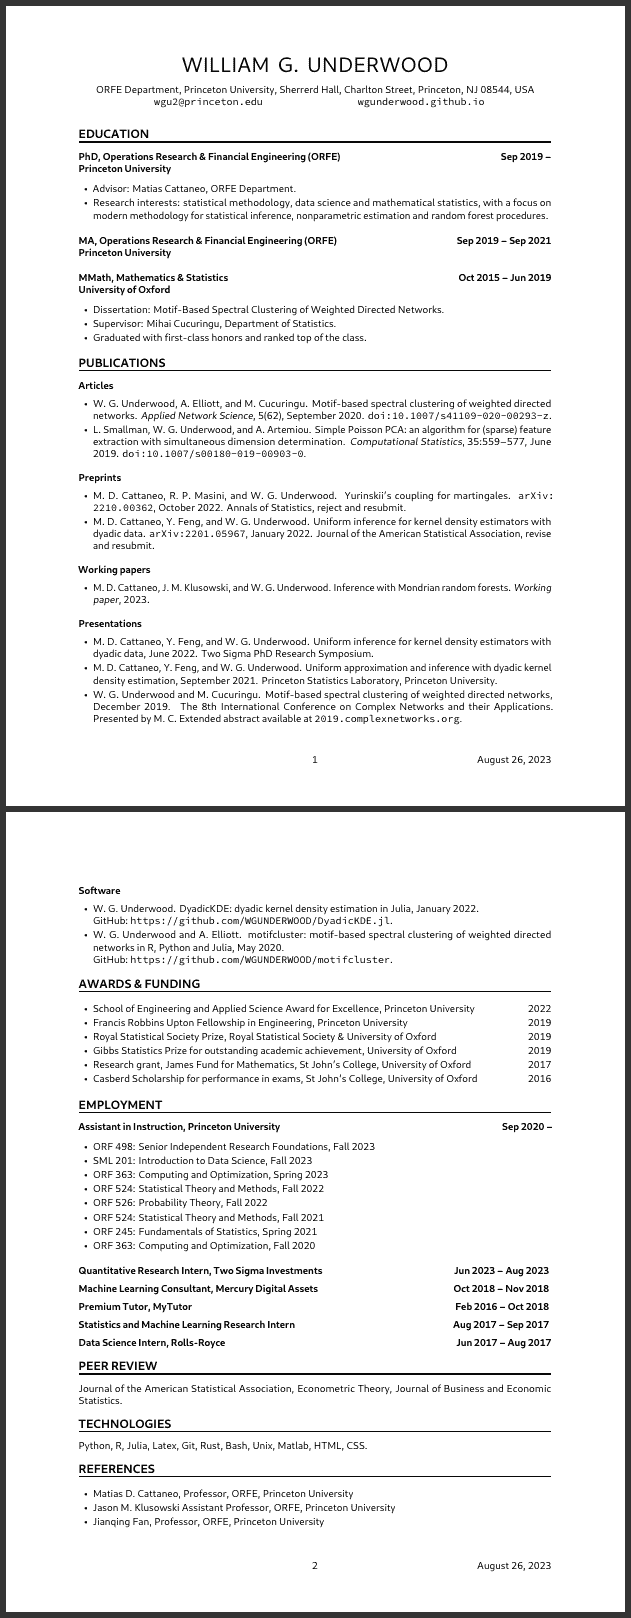
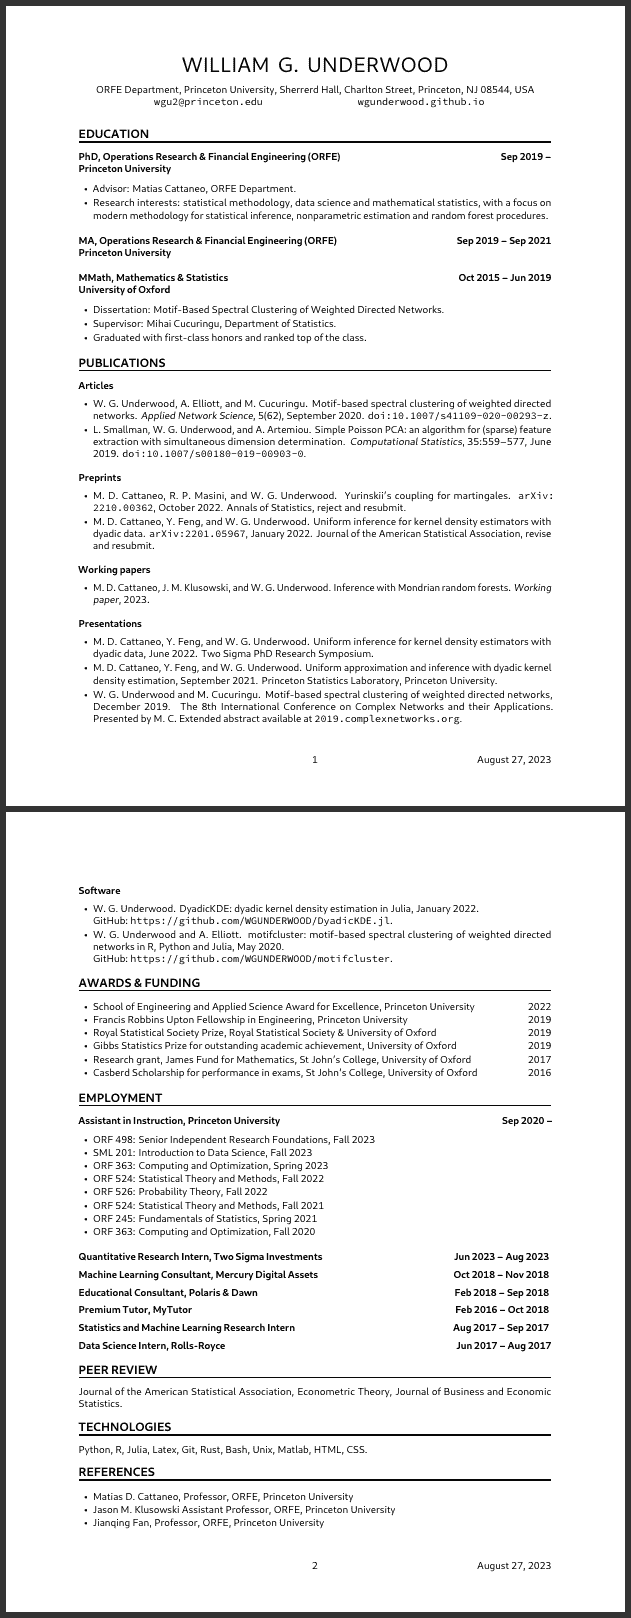
added polaris and dawn

Changed region(s): [[0.1204, 0.5871, 0.8732, 0.958], [0.7829, 0.618, 0.8732, 0.7108]]

diff --git a/WGUnderwood.tex b/WGUnderwood.tex
@@ -206,6 +206,11 @@
 {Oct 2018 -- Nov 2018}
 \vspace*{2mm}
 
+\cvsubsection{Educational Consultant, Polaris \& Dawn}
+{}
+{Feb 2018 -- Sep 2018}
+\vspace*{2mm}
+
 \cvsubsection{Premium Tutor, MyTutor}
 {}
 {Feb 2016 -- Oct 2018}
